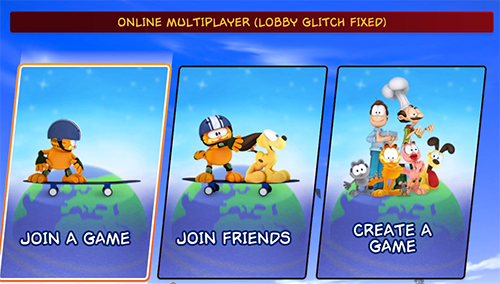
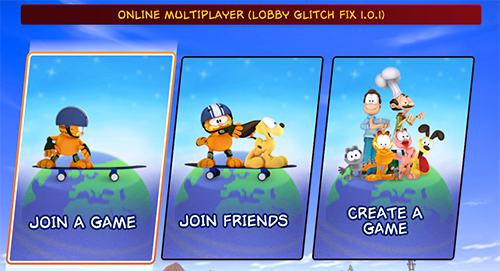
Release 1.0.1

diff --git a/Plugin.cs b/Plugin.cs
@@ -62,7 +62,7 @@ public partial class Plugin : BaseUnityPlugin
         [HarmonyPostfix]
         static void MenuHDMultiplayerMain_Enter(TMP_Text ___m_titleLabel)
         {
-            ___m_titleLabel.text += " (lobby glitch fixed)";
+            ___m_titleLabel.text += $" (lobby glitch fix {MyPluginInfo.PLUGIN_VERSION})";
         }
     }
 }

diff --git a/README.md b/README.md
@@ -11,7 +11,7 @@ This mod fixes the _lobby glitch_ bug in Garfield Kart Furious Racing multiplaye
     * More info: https://docs.bepinex.dev/articles/user_guide/installation/index.html
 2. Download the latest `GKFRLobbyGlitchFix.dll` from the [releases](https://github.com/mentalvary/GKFRLobbyGlitchFix/releases) page.
 3. Copy it into `<game root folder>/BepInEx/plugins/`
-4. If you did everything right, you will see "lobby glitch fixed" in the Online Multiplayer menu title:
+4. If you did everything right, you will see "lobby glitch fix" in the Online Multiplayer menu title:
 
     ![menu](menu.png)
 
